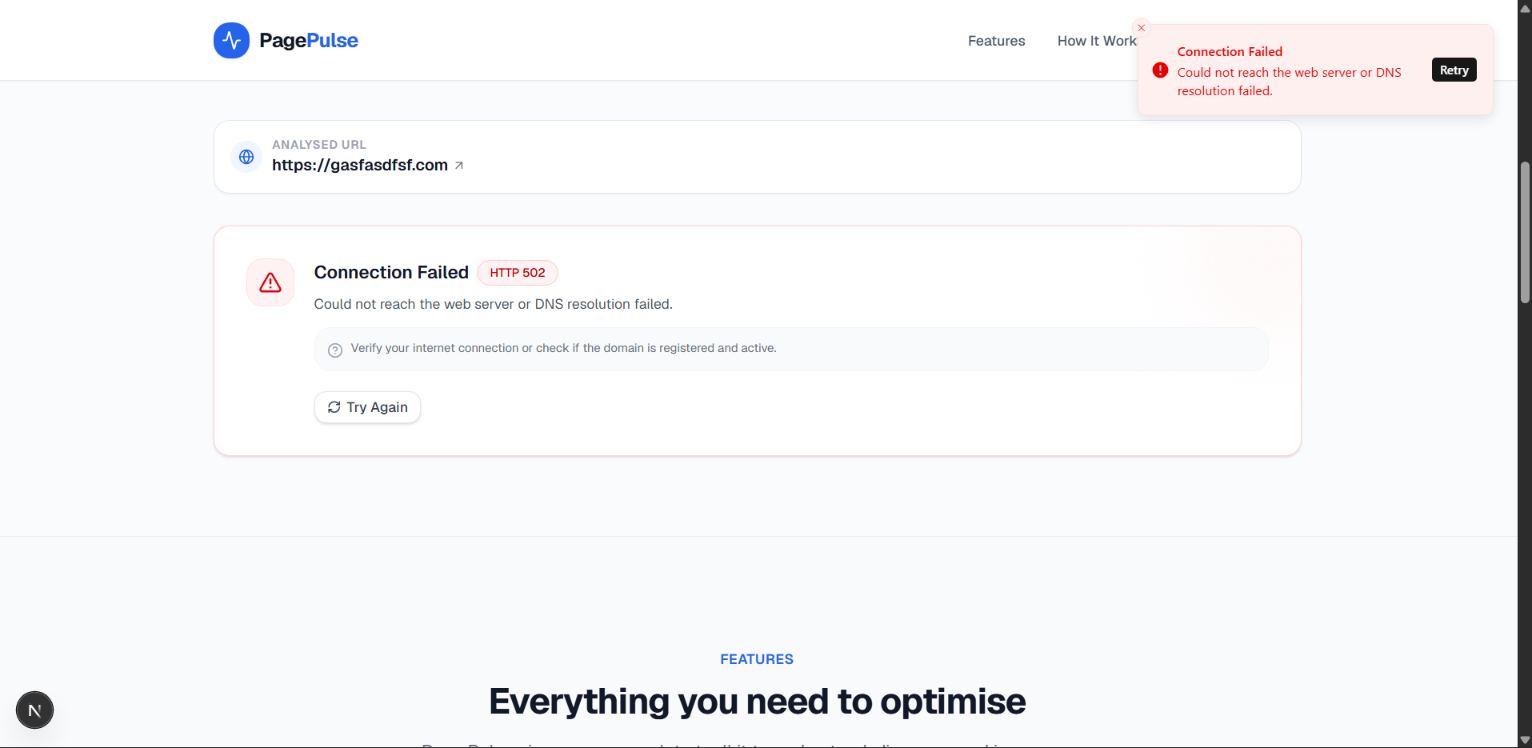
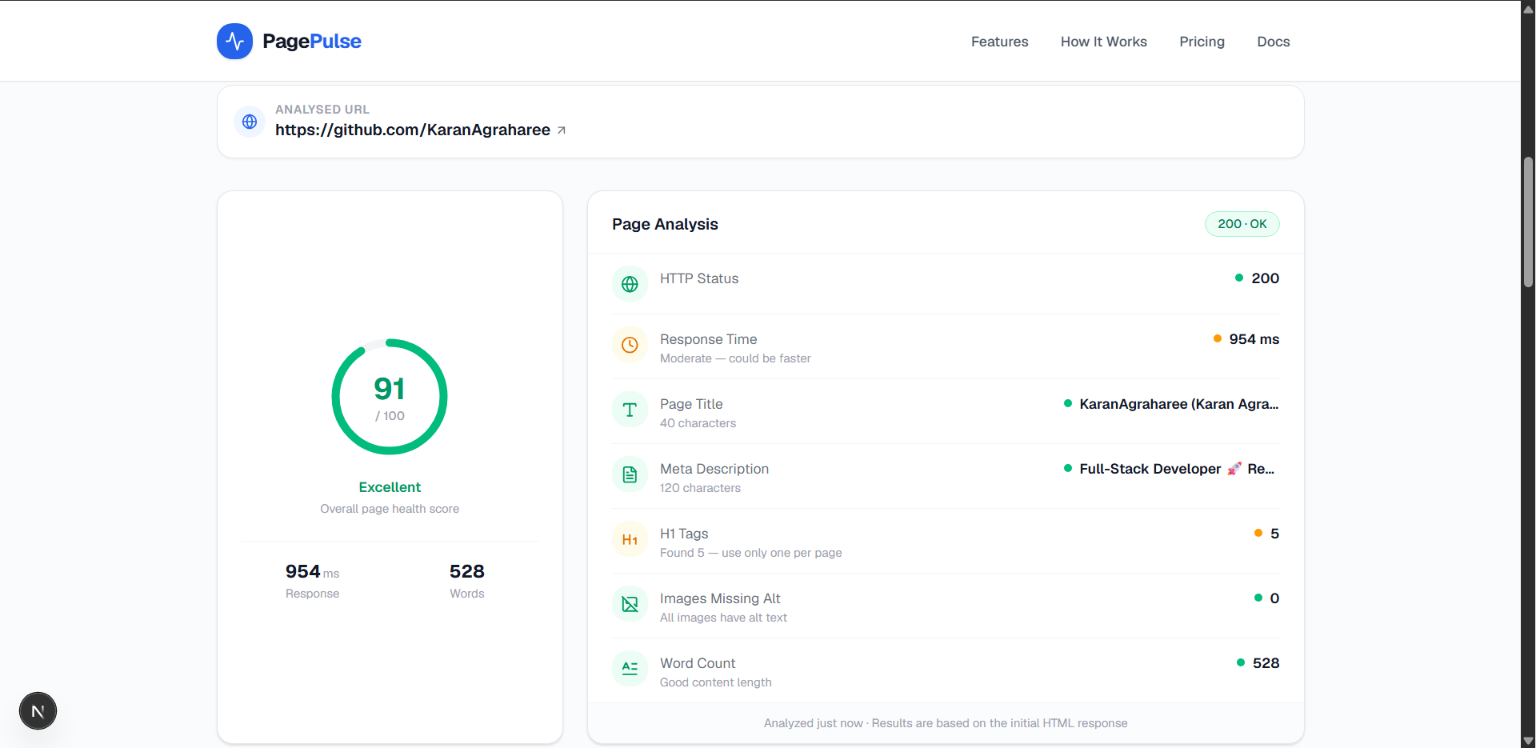
Readme.md

diff --git a/README.md b/README.md
@@ -27,15 +27,9 @@ https://github.com/KaranAgraharee/Page-Pulse
 
 ---
 
-## Website Analysis
-
-![Website Analysis](screenshot/analysis_page.jpg)
-
----
-
 ## Analysis Report
 
-![Analysis Report](screenshot/Report.jpg)
+![Analysis Report](screenshot/report.jpg)
 
 ---
 
